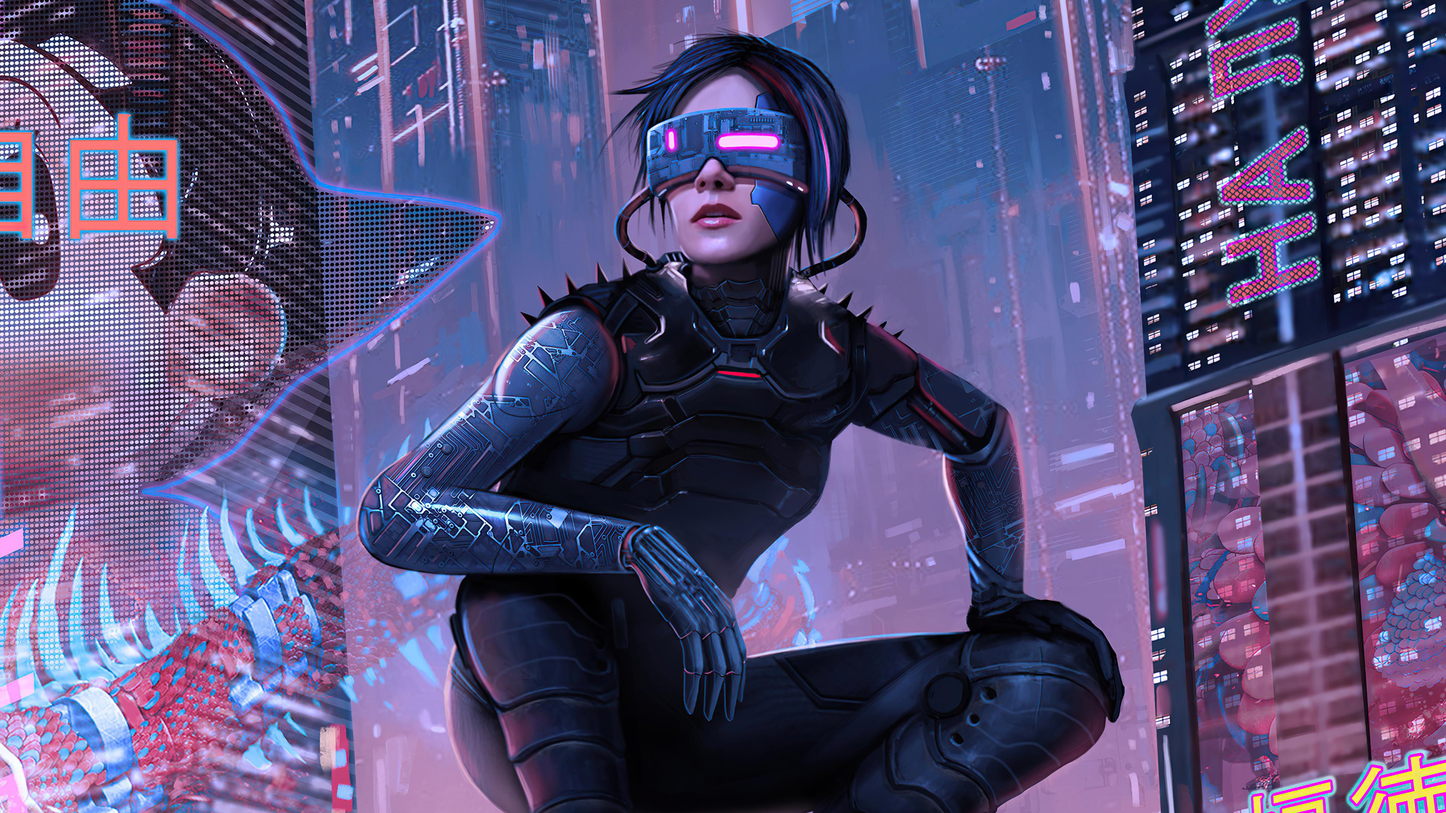
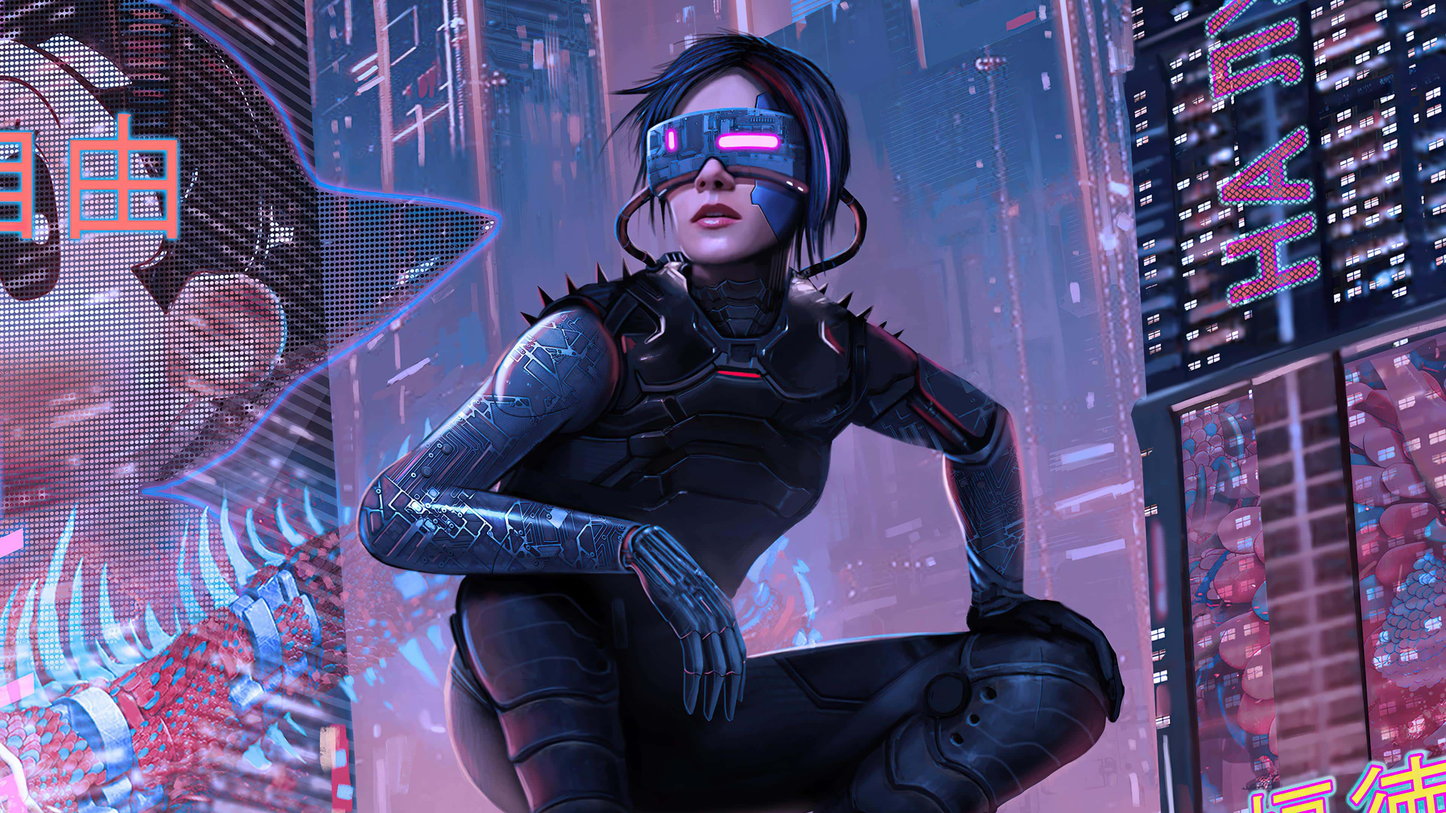
压缩封面图片

diff --git a/src/lib/MainBoard.svelte b/src/lib/MainBoard.svelte
@@ -22,7 +22,7 @@
         background-size: cover;
         transition: background-image 0.5s;
         &.light{
-          background-image: url("@/assets/imgs/banner-light.png");
+          background-image: url("@/assets/imgs/banner-light.jpg");
         }
         &.dark{
           background-image: url("@/assets/imgs/banner-dark.jpg");
